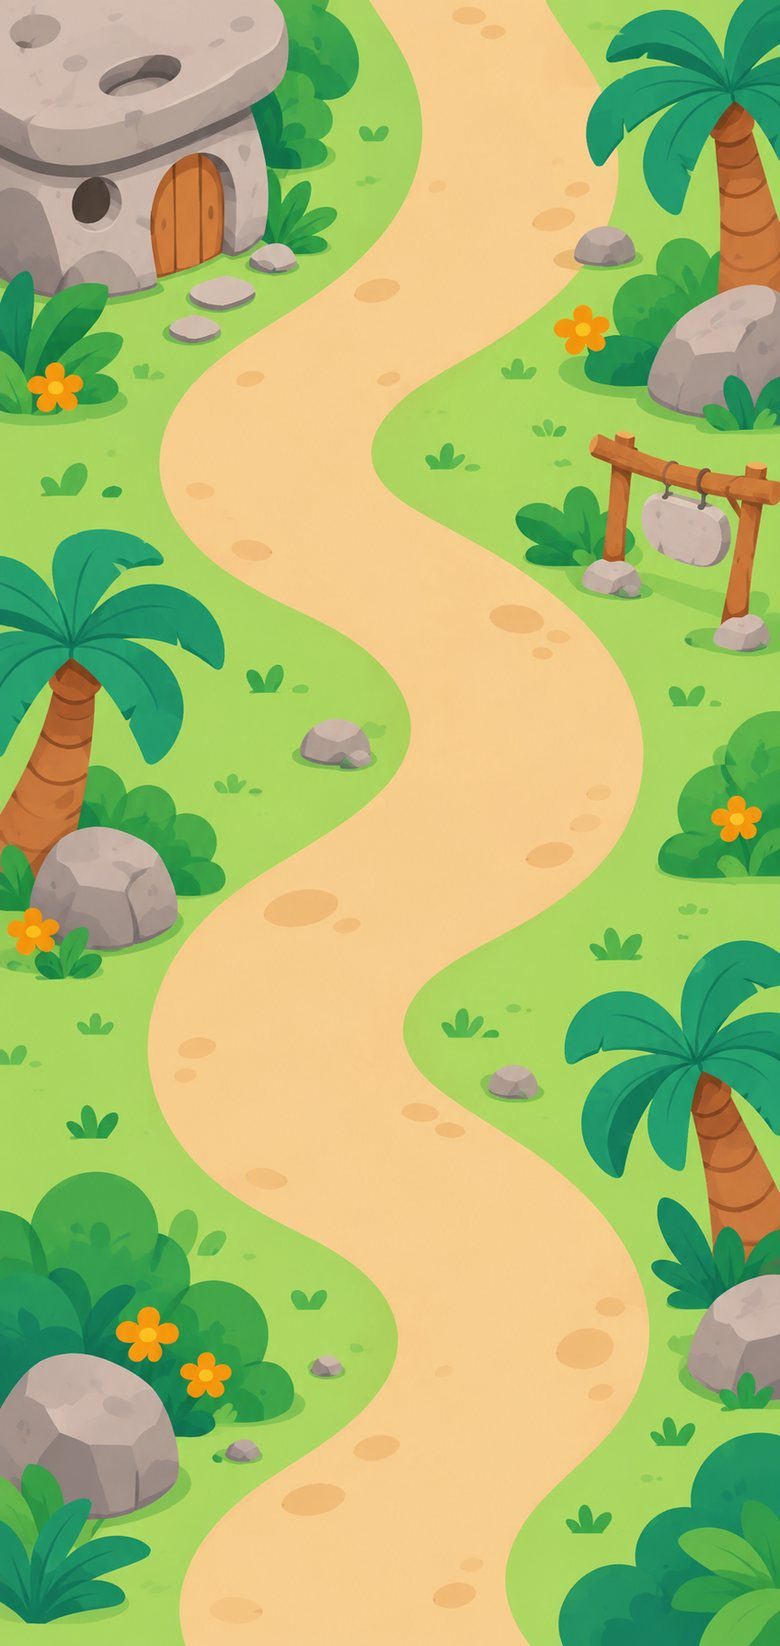
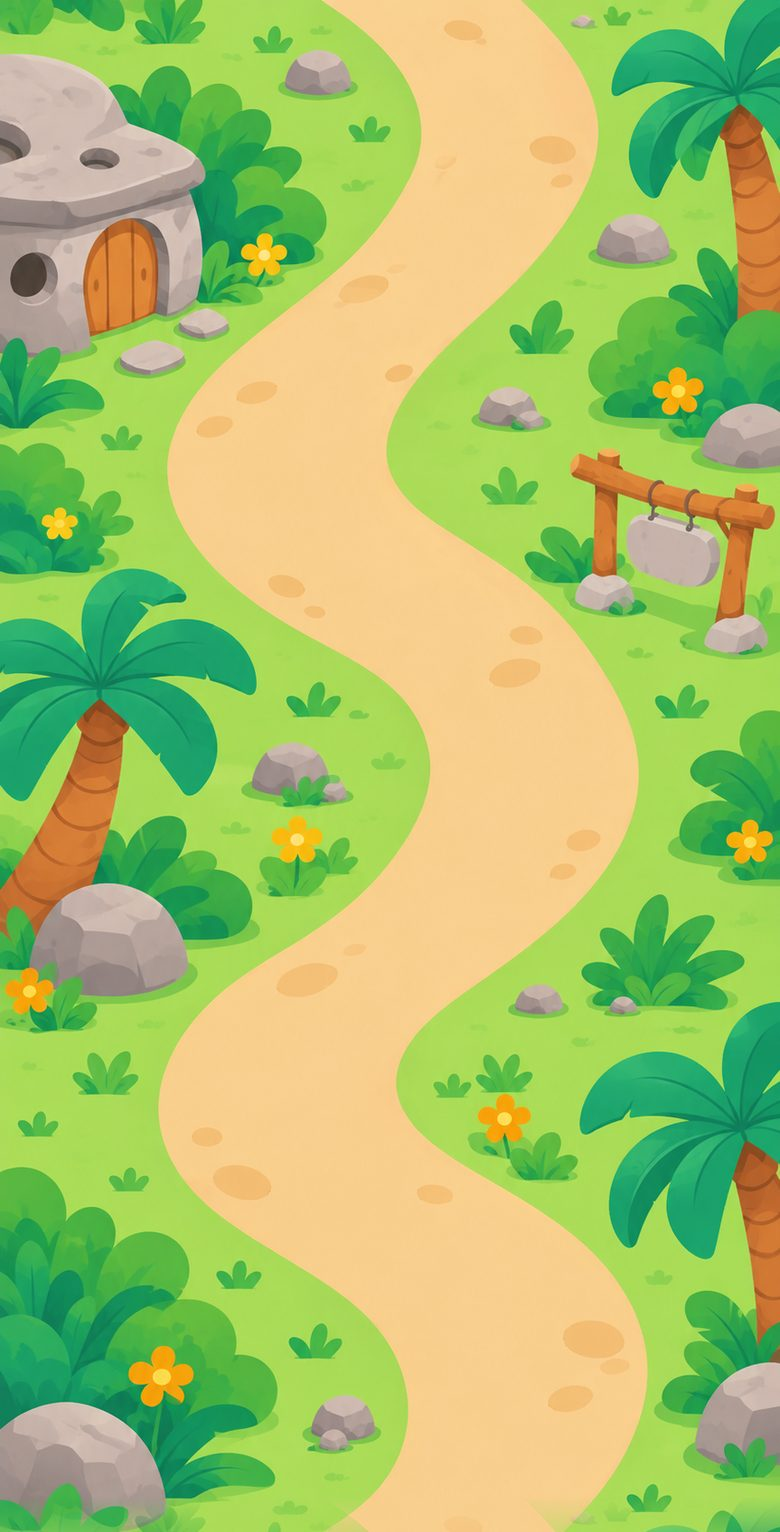
Jornada: novo cenario continuo, sem espelhamento e sem linha na emenda (v0.7.2)
Claude-Session: https://claude.ai/code/session_01Ka3VDYB8FcRcsabPJerswF

diff --git a/js/path.js b/js/path.js
@@ -1,2 +1,2 @@
-// centro do caminho da imagem (espaço 390 x ~823), pares [y, x]
-export const PATH = [[0.0,229.1],[7.2,232.8],[14.5,237.5],[21.7,242.2],[28.9,246.6],[36.2,250.4],[43.4,253.4],[50.6,253.5],[57.8,252.3],[65.1,251.9],[72.3,252.0],[79.5,253.4],[86.8,257.7],[94.0,256.6],[101.2,254.2],[108.5,251.0],[115.7,243.7],[122.9,237.0],[130.2,233.6],[137.4,229.1],[144.6,221.1],[151.8,211.9],[159.1,201.8],[166.3,191.0],[173.5,180.0],[180.8,169.0],[188.0,158.8],[195.2,150.1],[202.5,143.3],[209.7,138.2],[216.9,134.7],[224.1,133.0],[231.4,133.0],[238.6,134.7],[245.8,138.5],[253.1,144.6],[260.3,152.6],[267.5,161.8],[274.8,171.6],[282.0,181.7],[289.2,192.3],[296.5,203.3],[303.7,214.7],[310.9,225.8],[318.1,235.5],[325.4,243.2],[332.6,249.5],[339.8,254.4],[347.1,258.2],[354.3,260.9],[361.5,262.5],[368.8,262.9],[376.0,262.2],[383.2,260.4],[390.5,257.4],[397.7,253.4],[404.9,248.1],[412.1,241.7],[419.4,234.2],[426.6,225.9],[433.8,217.0],[441.1,207.6],[448.3,198.2],[455.5,188.7],[462.8,179.1],[470.0,169.5],[477.2,160.4],[484.4,152.8],[491.7,146.8],[498.9,142.4],[506.1,139.5],[513.4,138.0],[520.6,138.0],[527.8,139.3],[535.1,142.0],[542.3,146.2],[549.5,151.9],[556.8,158.7],[564.0,166.2],[571.2,174.1],[578.4,182.2],[585.7,190.3],[592.9,198.8],[600.1,207.4],[607.4,216.6],[614.6,226.3],[621.8,235.6],[629.1,243.5],[636.3,249.8],[643.5,254.5],[650.8,258.0],[658.0,260.2],[665.2,261.4],[672.4,261.4],[679.7,260.3],[686.9,258.0],[694.1,254.6],[701.4,250.0],[708.6,244.2],[715.8,237.2],[723.1,229.0],[730.3,219.9],[737.5,210.6],[744.8,201.7],[752.0,193.8],[759.2,187.1],[766.4,181.7],[773.7,177.5],[780.9,174.5],[788.1,172.6],[795.4,171.7],[802.6,172.0],[809.8,173.4],[817.1,176.0]];
+// centro do caminho da imagem (espaço 390 x 766), pares [y, x]
+export const PATH = [[0.0, 211.2], [7.0, 219.2], [14.0, 227.0], [21.0, 234.0], [28.0, 240.0], [35.0, 244.8], [42.0, 248.5], [49.0, 251.8], [56.0, 253.8], [63.0, 254.8], [70.0, 254.8], [77.0, 253.2], [84.0, 251.5], [91.0, 248.5], [98.0, 244.8], [105.0, 240.5], [112.0, 235.8], [119.0, 230.5], [126.0, 157.0], [133.0, 152.8], [140.0, 210.0], [147.0, 202.5], [154.0, 194.0], [161.0, 185.5], [168.0, 177.5], [175.0, 170.0], [182.0, 162.8], [189.0, 156.5], [196.0, 150.8], [203.0, 146.5], [210.0, 142.8], [217.0, 140.2], [224.0, 138.8], [231.0, 138.5], [238.0, 139.5], [245.0, 142.2], [252.0, 146.2], [259.0, 151.5], [266.0, 159.0], [273.0, 166.8], [280.0, 175.2], [287.0, 183.2], [294.0, 191.8], [301.0, 200.2], [308.0, 254.5], [315.0, 218.0], [322.0, 227.0], [329.0, 236.0], [336.0, 244.0], [343.0, 250.2], [350.0, 255.8], [357.0, 259.8], [364.0, 262.8], [371.0, 265.0], [378.0, 266.5], [385.0, 267.0], [392.0, 266.5], [399.0, 265.2], [406.0, 263.0], [413.0, 260.2], [420.0, 228.5], [427.0, 252.5], [434.0, 247.5], [441.0, 242.0], [448.0, 235.0], [455.0, 228.0], [462.0, 219.5], [469.0, 210.2], [476.0, 199.5], [483.0, 189.5], [490.0, 179.2], [497.0, 170.0], [504.0, 161.8], [511.0, 154.5], [518.0, 149.0], [525.0, 144.8], [532.0, 141.5], [539.0, 139.5], [546.0, 139.0], [553.0, 139.8], [560.0, 142.0], [567.0, 145.5], [574.0, 151.0], [581.0, 157.8], [588.0, 165.8], [595.0, 174.5], [602.0, 183.8], [609.0, 193.2], [616.0, 203.2], [623.0, 212.8], [630.0, 222.2], [637.0, 230.8], [644.0, 238.5], [651.0, 245.2], [658.0, 250.5], [665.0, 255.0], [672.0, 258.2], [679.0, 260.5], [686.0, 262.2], [693.0, 262.8], [700.0, 262.8], [707.0, 261.8], [714.0, 260.2], [721.0, 258.2], [728.0, 255.2], [735.0, 251.2], [742.0, 246.5], [749.0, 240.5], [756.0, 233.0], [763.0, 228.2]];

diff --git a/js/views.js b/js/views.js
@@ -67,24 +67,24 @@ export function jornada() {
 }
 // Linha do tempo infinita: cada semana é um "tile" do cenário (alternando espelhado para emendar o caminho).
 // O dia de hoje fica sempre numa posição fixa da tela (ao carregar/voltar), com o Rex ao lado.
-const SLOT = 823 / 7, SHIFT = 15;
+const IMGH = 766, SLOT = IMGH / 7;
 function xAt(imgY, flip) {
   const last = PATH[PATH.length - 1][0], y = Math.max(0, Math.min(last, imgY));
   let x = PATH[PATH.length - 1][1];
   for (let k = 1; k < PATH.length; k++) if (PATH[k][0] >= y) { const [y0, x0] = PATH[k - 1], [y1, x1] = PATH[k]; x = y1 === y0 ? x1 : x0 + (x1 - x0) * (y - y0) / (y1 - y0); break; }
-  return flip ? 390 - x + SHIFT : x;
+  return x;
 }
 const fmtDM = d => { const [, m, dd] = d.split('-'); return `${+dd}/${+m}`; };
 export function layoutJourney() {
   const win = document.getElementById('jwin'); if (!win || !jdata) return;
   const cw = win.clientWidth, wh = win.clientHeight, t = today(), curMon = monday(t), cr = R.profile()?.criado, c = R.cycleInfo();
-  const sc = Math.max(cw / 390, wh / 823) * 1.15, W = 390 * sc, H = 823 * sc, left = (cw - W) / 2, size = 66, msz = 88;
+  const sc = Math.max(cw / 390, wh / IMGH) * 1.15, W = 390 * sc, H = IMGH * sc, left = (cw - W) / 2, size = 66, msz = 88;
   const past = Math.max(0, Math.min(3, cr ? Math.round((new Date(curMon) - new Date(monday(cr))) / (7 * 864e5)) : 0)), FUT = 2;
   const nW = FUT + past + 1;
   let imgs = '', ribs = '', nodes = '', labs = '', rexH = '', yToday = 0;
   for (let i = 0; i < nW; i++) {
-    const off = FUT - i, mon = addDays(curMon, off * 7), flip = i % 2 === 1, s = off === 0 ? jdata.s : R.weekSummary(mon);
-    imgs += `<img class="bg" src="assets/cenario/trilha.jpg" alt="" style="left:${left + (flip ? SHIFT * sc : 0)}px;top:${i * H}px;width:${W}px;height:${H}px;${flip ? 'transform:scaleX(-1);' : ''}">`;
+    const off = FUT - i, mon = addDays(curMon, off * 7), flip = false, s = off === 0 ? jdata.s : R.weekSummary(mon);
+    imgs += `<img class="bg" src="assets/cenario/trilha.jpg" alt="" style="left:${left}px;top:${i * H}px;width:${W}px;height:${H}px;">`;
     if (i > 0) { // faixa da semana na emenda entre os tiles
       const n = c ? c.semana + off + 1 : 0, x = cw / 2, txt = n >= 1 && n <= (c?.duration || 8) ? 'SEMANA ' + n : 'SEMANA DE ' + fmtDM(addDays(mon, 7));
       ribs += `<div class="seam" style="top:${i * H}px"></div><div class="rib" style="left:${x}px;top:${i * H}px"><span>${txt}</span></div>`;

diff --git a/css/app.css b/css/app.css
@@ -186,4 +186,4 @@ button.link-row{width:100%;text-align:left;font-family:inherit;color:inherit;cur
 .hoje-btn{position:absolute;right:16px;bottom:calc(98px + env(safe-area-inset-bottom));z-index:13;background:var(--ink);color:#fff;border:0;border-radius:18px;padding:9px 16px;font:900 14px Nunito,sans-serif;box-shadow:0 6px 16px rgba(31,10,43,.3);opacity:0;pointer-events:none;transition:opacity .2s}
 .hoje-btn.show{opacity:1;pointer-events:auto}
 .seam{position:absolute;left:0;right:0;height:90px;transform:translateY(-50%);background:linear-gradient(rgba(176,219,106,0),rgba(176,219,106,.85) 50%,rgba(176,219,106,0));pointer-events:none;z-index:1}
-.seam{height:6px!important;background:#fff!important;border-radius:3px;box-shadow:0 2px 8px rgba(31,10,43,.28);opacity:.95;transform:translateY(-50%)!important}
+.seam{display:none!important}

diff --git a/js/app.js b/js/app.js
@@ -5,7 +5,7 @@ import * as O from './onboarding.js';
 import * as T from './treino.js';
 import { nav, setBind } from './state.js';
 
-export const APP_VERSION = '0.7.1';
+export const APP_VERSION = '0.7.2';
 V.ui.version = APP_VERSION;
 const root = document.getElementById('app');
 const ROUTES = { bemvindo: O.bemvindo, login: O.login, diag1: () => O.diag(1), diag2: () => O.diag(2), diag3: () => O.diag(3), diag4: () => O.diag(4), diag5: () => O.diag(5), atv: O.atv, progcolar: O.progColar, programa: O.programa, treino: T.treino, onb2: V.onb2, jornada: V.jornada, checkin: V.checkin, armario: V.armario, evolucao: V.evolucao, grupo: V.grupo, perfil: V.perfil, editar: V.editar };

diff --git a/sw.js b/sw.js
@@ -1,4 +1,4 @@
-const VERSION = 'rex-0.7.1';
+const VERSION = 'rex-0.7.2';
 const SHELL = ['./', 'index.html', 'manifest.webmanifest', 'css/app.css', 'js/app.js', 'js/views.js', 'js/rules.js', 'js/store.js', 'js/ui.js', 'js/util.js', 'js/config.js', 'js/state.js', 'js/onboarding.js', 'js/program.js', 'js/path.js', 'js/treino.js',
   'assets/rex/base.png', 'assets/rex/determinado.png', 'assets/rex/empolgado.png', 'assets/rex/cansado.png', 'assets/rex/orgulhoso.png', 'assets/cenario/trilha.jpg', 'assets/icon-192.png'];
 self.addEventListener('install', e => { e.waitUntil(caches.open(VERSION).then(c => c.addAll(SHELL)).then(() => self.skipWaiting())); });
